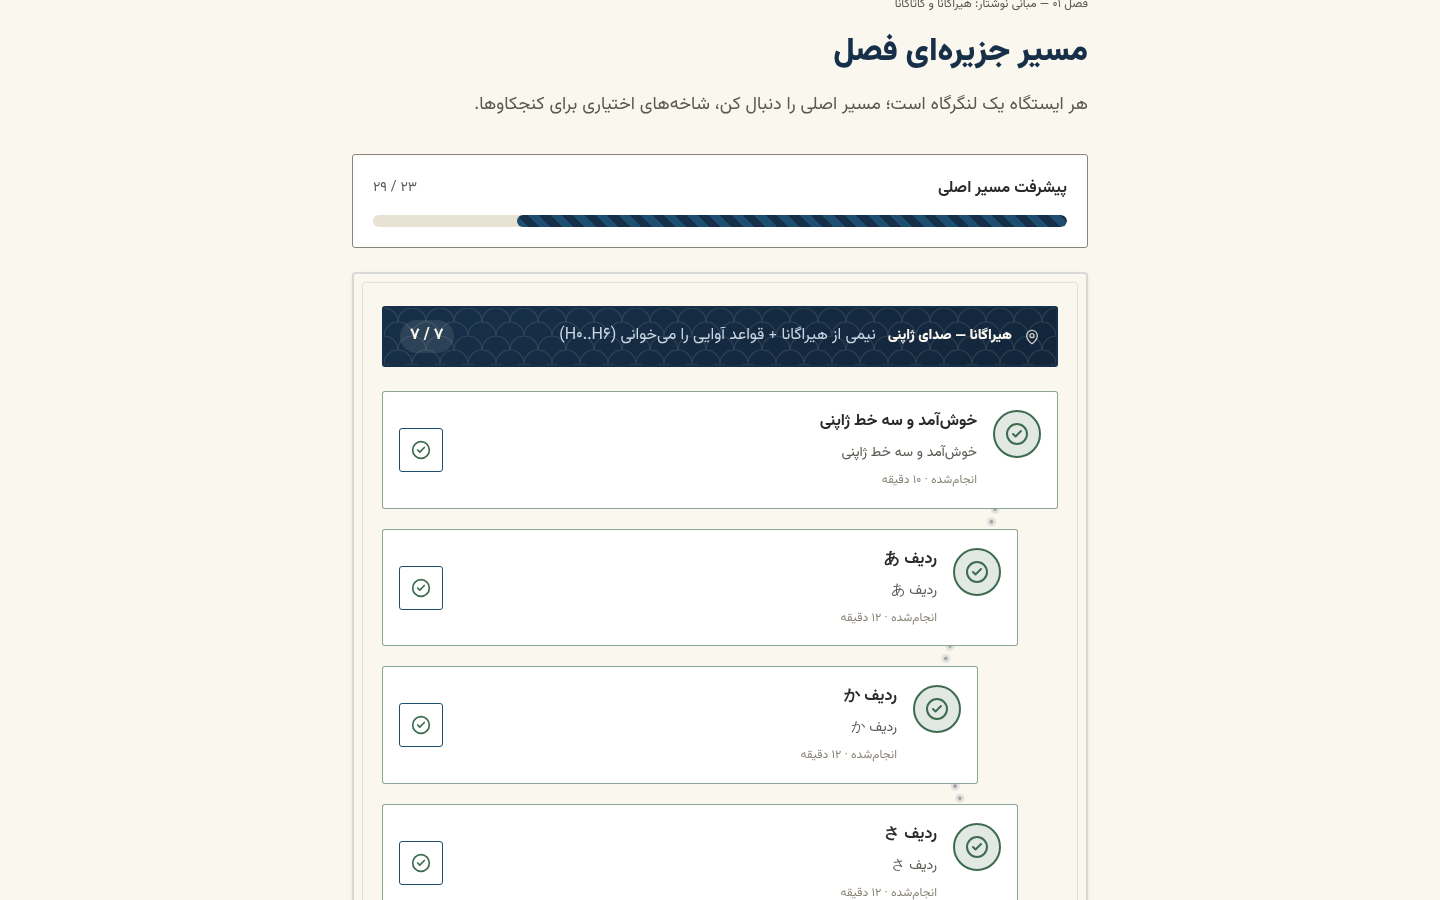
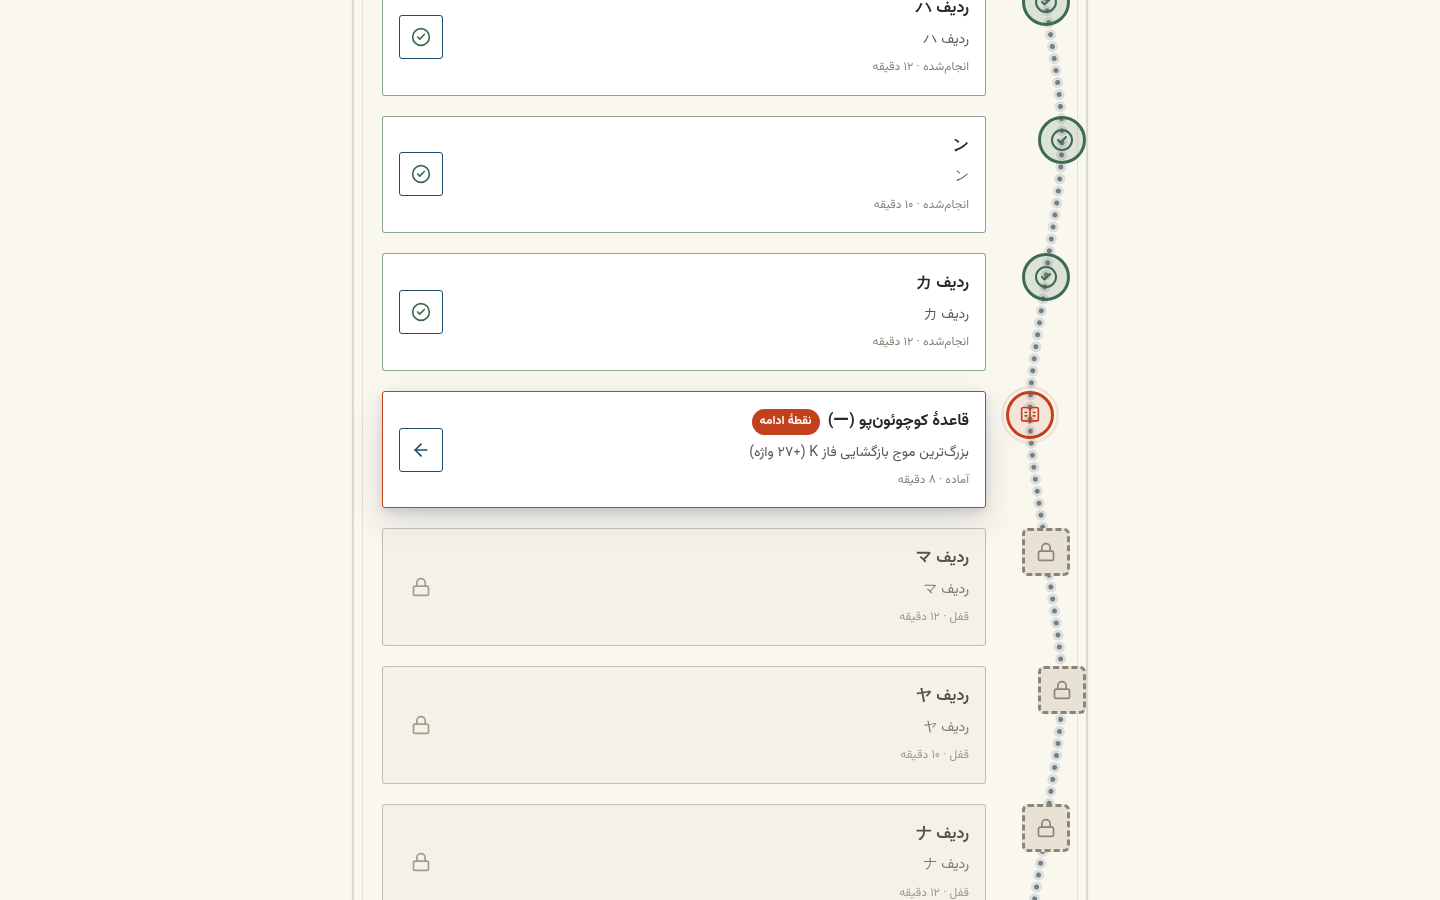
polish(map): TASK-LEARNING-07 W5 pass 2/3 — VLM-reviewed trail layout (marker rail + winding + texture)
What — Why (two VLM review rounds on real screenshots):
- pass 1 (VLM: 'path too faint, no winding, no texture') → pass 2: waypoint
  markers moved OUT of the cards onto their own rail column (the dotted path
  now threads through markers, never under cards), trail dots boosted
  (5px core + 11px ink halo, opacity 0.55/0.12), paper grain strengthened
  (0.05/0.032 + corner vignette)
- pass 2 (VLM: 'serpentine very mild') → sway amplitude doubled
  (markers shift 0/16/32/16px on ≥sm, cards stay aligned)
- final VLM verdict on the shipped layout: PASS — trail visibly winding,
  marker shapes distinct by state, mobile 390px clean (no overflow), minor
  polish notes only (texture subtlety accepted by design: professional, not
  childish)
- evidence refreshed on the final build: 9 screenshots (5 map states with
  auto-scroll verified at scrollY 54/1243/3559/4283/214 + writing free/
  guided/trace)

Gates: tsc 0 · eslint 0 · vitest 30 files / 304 passed

Changed region(s): [[0.25, 0.0, 0.7812, 1.0], [0.2812, 0.4978, 0.3125, 0.5289], [0.2812, 0.0311, 0.3125, 0.0622]]

diff --git a/apps/web/src/components/curriculum/journey-map.tsx b/apps/web/src/components/curriculum/journey-map.tsx
@@ -90,12 +90,14 @@ function faNum(n: number): string {
   return new Intl.NumberFormat('fa-IR').format(n);
 }
 
-/** Old-paper grain: warm sand base + faint fiber/grid gradients (all Aizen tokens). */
+/** Old-paper grain: warm sand base + visible fiber/grid gradients + corner
+ *  vignette (all Aizen tokens; VLM review pass 1 asked for a READABLE texture). */
 const PAPER_TEXTURE =
-  'radial-gradient(ellipse 120% 60% at 18% 0%, rgba(23, 48, 73, 0.045), transparent 55%),' +
-  'radial-gradient(ellipse 120% 50% at 85% 100%, rgba(194, 64, 28, 0.035), transparent 55%),' +
-  'repeating-linear-gradient(93deg, rgba(43, 42, 40, 0.022) 0 2px, transparent 2px 7px),' +
-  'repeating-linear-gradient(2deg, rgba(43, 42, 40, 0.014) 0 1px, transparent 1px 5px),' +
+  'radial-gradient(ellipse 140% 90% at 12% -10%, rgba(23, 48, 73, 0.07), transparent 52%),' +
+  'radial-gradient(ellipse 130% 80% at 90% 108%, rgba(194, 64, 28, 0.055), transparent 50%),' +
+  'repeating-linear-gradient(93deg, rgba(43, 42, 40, 0.05) 0 2px, transparent 2px 8px),' +
+  'repeating-linear-gradient(2deg, rgba(43, 42, 40, 0.032) 0 1px, transparent 1px 6px),' +
+  'radial-gradient(ellipse 90% 90% at 50% 50%, transparent 55%, rgba(43, 42, 40, 0.05) 100%),' +
   'var(--color-surface-warm)';
 
 /** Seigaiha wave motif (DD-084 signature) as a subtle SVG overlay for island plaques. */
@@ -332,23 +334,24 @@ export function JourneyMap({ chapterSlug, initial }: JourneyMapProps) {
           {/* the dotted winding path (decorative — the SVG sits under the stops) */}
           {pathD && (
             <svg aria-hidden className="pointer-events-none absolute inset-0 z-0 h-full w-full">
+              {/* soft ink halo under the dots — makes the trail read as a path from afar */}
               <path
                 d={pathD}
                 fill="none"
                 stroke="var(--color-indigo)"
-                strokeOpacity={0.34}
-                strokeWidth={3.5}
+                strokeOpacity={0.12}
+                strokeWidth={11}
                 strokeLinecap="round"
-                strokeDasharray="0.1 13"
+                strokeDasharray="0.1 12"
               />
               <path
                 d={pathD}
                 fill="none"
                 stroke="var(--color-indigo)"
-                strokeOpacity={0.1}
-                strokeWidth={9}
+                strokeOpacity={0.55}
+                strokeWidth={5}
                 strokeLinecap="round"
-                strokeDasharray="0.1 13"
+                strokeDasharray="0.1 12"
               />
             </svg>
           )}
@@ -500,60 +503,45 @@ function UnitPlaque({ unit, done, total }: { unit: JourneyUnitDto; done: number;
 }
 
 /**
- * One station waypoint on the trail. Marker SHAPE carries the state
- * (filled+check · double-ring+pulse · open ring · dashed square), the optional
- * branch adds a diamond badge; the card stays a calm readable list row.
+ * One station waypoint on the trail: the MARKER sits on the dotted rail (its
+ * own column — the path threads through the markers, never under the cards),
+ * the readable card rides beside it. Marker SHAPE carries the state
+ * (filled+check · double-ring+pulse · open ring · dashed square · diamond for
+ * optional); on ≥sm screens the markers sway off the rail so the path visibly
+ * winds (VLM review pass 1: the trail must read as a trail, not a list).
  */
 function TrailNode({ node, index, isFocus }: { node: JourneyNodeDto; index: number; isFocus: boolean }) {
   const done = isDone(node.availability);
   const current = isCurrent(node.availability) || isFocus;
   const locked = node.availability === 'locked';
-  // gentle serpentine on ≥sm screens: the marker column sways, the path follows
-  const sway = ['sm:ms-0', 'sm:ms-10', 'sm:ms-20', 'sm:ms-10'][index % 4] ?? 'sm:ms-0';
+  // gentle serpentine on ≥sm screens: the MARKER sways on the rail, cards stay aligned
+  const sway = ['', 'sm:translate-x-4', 'sm:translate-x-8', 'sm:translate-x-4'][index % 4] ?? '';
 
   return (
     <li
-      className={`relative z-10 ${sway} transition-[margin]`}
+      className="relative z-10"
       data-trail-focus={isFocus ? 'true' : undefined}
       aria-current={isFocus ? 'step' : undefined}
     >
-      <div
-        className={[
-          'flex items-start gap-4 rounded-md border p-4 backdrop-blur-[1px] transition-colors',
-          locked
-            ? 'border-ink-faint/60 bg-surface-muted/70 opacity-80'
-            : done
-              ? 'border-success/60 bg-card'
-              : current
-                ? 'border-shu bg-card shadow-[var(--shadow-raised)]'
-                : 'border-ai bg-card shadow-[var(--shadow-card)]',
-        ].join(' ')}
-      >
-        {/* the WAYPOINT marker — shape+marker encode the state (mission §5) */}
-        <span aria-hidden className="relative shrink-0 py-0.5">
+      <div className="flex items-start gap-3 sm:gap-4">
+        {/* the rail column — the WAYPOINT marker (shape+marker encode the state, mission §5) */}
+        <span aria-hidden className={`relative flex w-12 shrink-0 justify-center sm:w-14 ${sway}`}>
           <span
             data-waypoint=""
             className={[
-              'relative grid size-12 place-items-center',
+              'relative grid size-11 place-items-center bg-card sm:size-12',
               // shape families: circle (core) · dashed square (locked) · diamond (optional)
               locked
-                ? 'rounded-[6px] border-2 border-dashed border-ink-faint bg-surface-sunken text-ink-faint'
+                ? 'rounded-[6px] border-[3px] border-dashed border-ink-faint bg-surface-sunken text-ink-faint'
                 : node.core
-                  ? 'rounded-full'
-                  : 'rotate-45 rounded-[6px] border-2',
-              !locked && node.core
-                ? done
-                  ? 'border-2 border-success bg-success/15 text-success'
-                  : current
-                    ? 'border-2 border-shu bg-shu/10 text-shu'
-                    : 'border-2 border-ai bg-indigo-wash/60 text-ai'
-                : '',
-              !locked && !node.core
+                  ? 'rounded-full border-[3px]'
+                  : 'rotate-45 rounded-[6px] border-[3px]',
+              !locked
                 ? done
                   ? 'border-success bg-success/15 text-success'
                   : current
                     ? 'border-shu bg-shu/10 text-shu'
-                    : 'border-ai bg-indigo-wash/60 text-ai'
+                    : 'border-ai bg-indigo-wash/70 text-ai'
                 : '',
             ].join(' ')}
           >
@@ -570,50 +558,66 @@ function TrailNode({ node, index, isFocus }: { node: JourneyNodeDto; index: numb
           </span>
           {/* current-stop pulse ring — motion-safe only (prefers-reduced-motion respected) */}
           {current && !done && (
-            <span className="absolute inset-0 -z-10 animate-[pulse-ring_2.2s_ease-out_infinite] rounded-full border-2 border-shu/50 motion-reduce:animate-none" />
+            <span className="absolute top-0 grid size-11 place-items-center sm:size-12">
+              <span className="absolute inset-0 animate-[pulse-ring_2.2s_ease-out_infinite] rounded-full border-2 border-shu/50 motion-reduce:animate-none" />
+            </span>
           )}
         </span>
 
-        <div className="flex min-w-0 flex-1 flex-col gap-1">
-          <div className="flex flex-wrap items-center gap-2">
-            <h3 className="text-body font-bold">{node.titleFa}</h3>
-            {!node.core && (
-              <span className="rounded-full border border-ai px-2 py-0.5 text-caption text-ai">
-                {fa.curriculum.stationOptional}
-              </span>
-            )}
-            {isFocus && !done && (
-              <span className="rounded-full bg-shu px-2 py-0.5 text-caption font-bold text-paper">
-                {fa.curriculum.trailLegendCurrent}
-              </span>
-            )}
+        {/* the station card — a calm readable row beside its waypoint */}
+        <div
+          className={[
+            'flex min-w-0 flex-1 items-start gap-3 rounded-md border bg-card p-4 transition-colors',
+            locked
+              ? 'border-ink-faint/60 bg-surface-muted/70 opacity-80'
+              : done
+                ? 'border-success/60'
+                : current
+                  ? 'border-shu shadow-[var(--shadow-raised)]'
+                  : 'border-ai shadow-[var(--shadow-card)]',
+          ].join(' ')}
+        >
+          <div className="flex min-w-0 flex-1 flex-col gap-1">
+            <div className="flex flex-wrap items-center gap-2">
+              <h3 className="text-body font-bold">{node.titleFa}</h3>
+              {!node.core && (
+                <span className="rounded-full border border-ai px-2 py-0.5 text-caption text-ai">
+                  {fa.curriculum.stationOptional}
+                </span>
+              )}
+              {isFocus && !done && (
+                <span className="rounded-full bg-shu px-2 py-0.5 text-caption font-bold text-paper">
+                  {fa.curriculum.trailLegendCurrent}
+                </span>
+              )}
+            </div>
+            <p className="text-small text-ink-soft">{node.objectiveFa}</p>
+            <p className="text-caption text-ink-faint">
+              {availabilityLabel(node.availability)} · {faNum(node.estMinutes)} {fa.curriculum.minutes}
+            </p>
           </div>
-          <p className="text-small text-ink-soft">{node.objectiveFa}</p>
-          <p className="text-caption text-ink-faint">
-            {availabilityLabel(node.availability)} · {faNum(node.estMinutes)} {fa.curriculum.minutes}
-          </p>
-        </div>
 
-        {node.availability !== 'locked' ? (
-          <Link
-            href={node.href}
-            className="grid size-11 shrink-0 place-items-center self-center rounded-md border border-ai text-ai transition-colors hover:bg-indigo-wash focus-visible:outline-2 focus-visible:outline-offset-2 focus-visible:outline-ai"
-            aria-label={`${node.titleFa} — ${availabilityLabel(node.availability)}`}
-          >
-            {done ? (
-              <CircleCheck aria-hidden className="size-5 text-success" />
-            ) : (
-              <ArrowLeft aria-hidden className="size-5" />
-            )}
-          </Link>
-        ) : (
-          <span
-            className="grid size-11 shrink-0 place-items-center self-center text-ink-faint"
-            aria-label={fa.curriculum.stationLocked}
-          >
-            <Lock aria-hidden className="size-5" />
-          </span>
-        )}
+          {node.availability !== 'locked' ? (
+            <Link
+              href={node.href}
+              className="grid size-11 shrink-0 place-items-center self-center rounded-md border border-ai text-ai transition-colors hover:bg-indigo-wash focus-visible:outline-2 focus-visible:outline-offset-2 focus-visible:outline-ai"
+              aria-label={`${node.titleFa} — ${availabilityLabel(node.availability)}`}
+            >
+              {done ? (
+                <CircleCheck aria-hidden className="size-5 text-success" />
+              ) : (
+                <ArrowLeft aria-hidden className="size-5" />
+              )}
+            </Link>
+          ) : (
+            <span
+              className="grid size-11 shrink-0 place-items-center self-center text-ink-faint"
+              aria-label={fa.curriculum.stationLocked}
+            >
+              <Lock aria-hidden className="size-5" />
+            </span>
+          )}
+        </div>
       </div>
     </li>
   );
